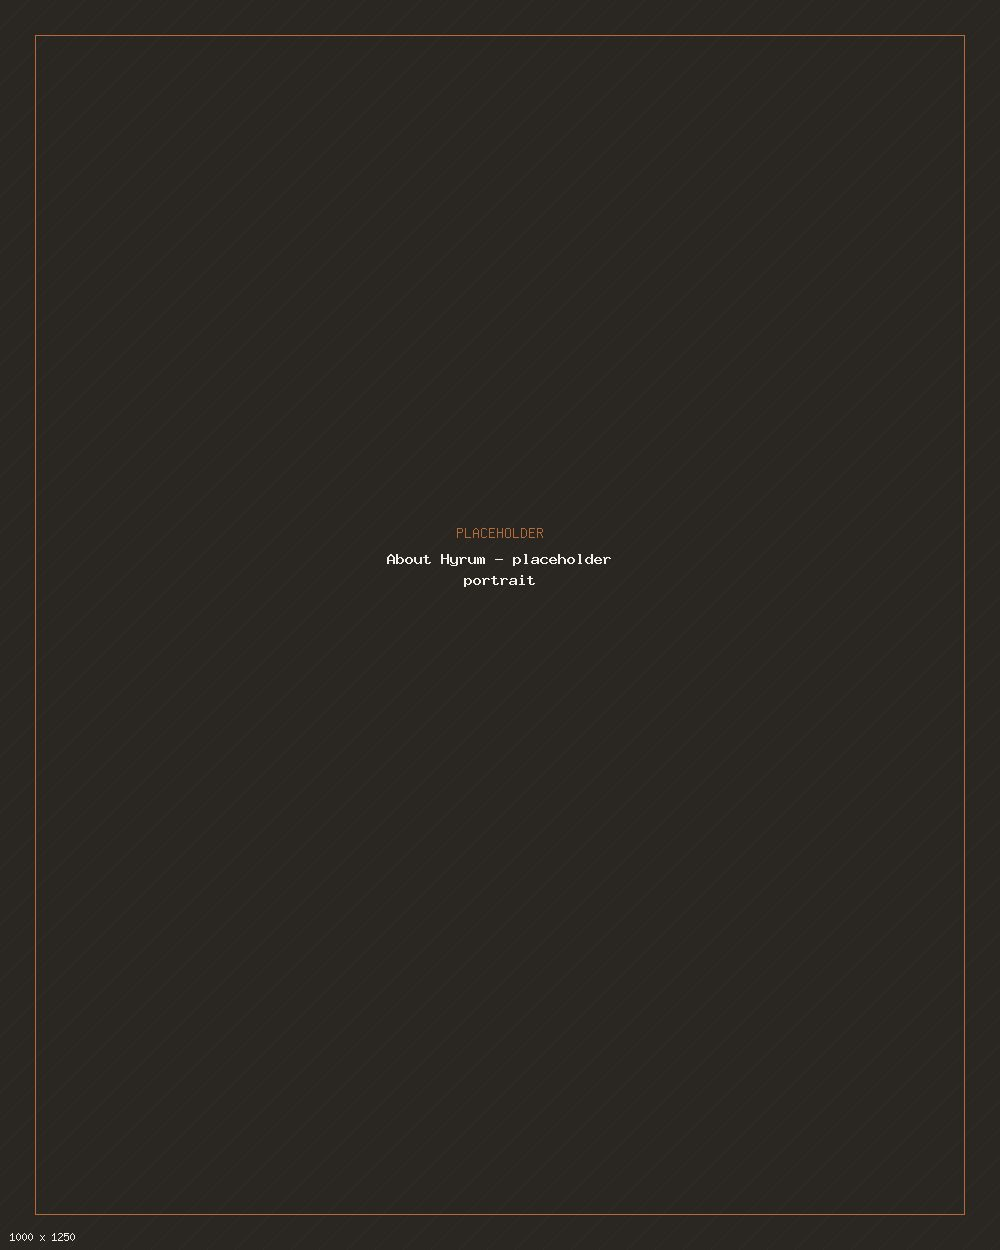
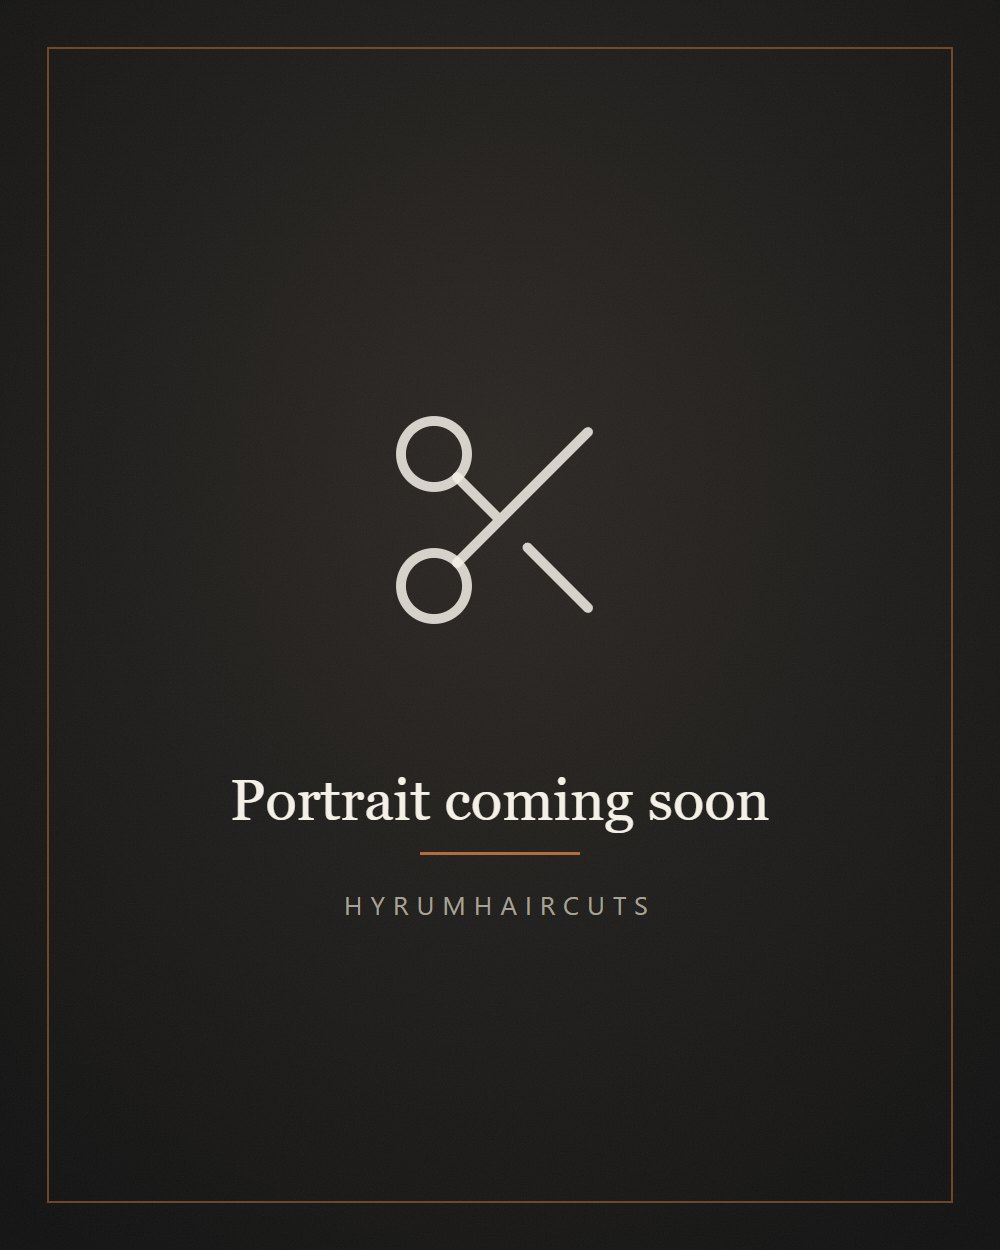
Separate videos from photos, one Book label, portrait placeholder
- Gallery: photos and before/afters in one grid, videos in their own
  "Videos" row below. Every card in a grid has the same shape (photos 4:5,
  videos 9:16) and the grids are 2 / 3 / 4 across, so rows come out even
  (8 photos = 2 rows of 4 on desktop; 4 videos = 1 row, 2x2 on phones).
- Removed the mid-gallery "Ready for your next look? / Let's Get You Fresh"
  band; the closing banner now uses the same "Book Your Next Cut" text as
  every other Book button. The two retired label settings are gone from the
  admin's Hero page.
- About: without an uploaded portrait, a branded "Portrait coming soon"
  placeholder shows (new artwork replacing the old grey "PLACEHOLDER" box).

diff --git a/web/src/public-site/gallery.js b/web/src/public-site/gallery.js
@@ -9,7 +9,6 @@ import { filterItems, visibleCategories } from '../lib/content.js';
  * full image, so the gallery still works if the lightbox script fails.
  */
 
-const CTA_AFTER = 6; // show the mid-gallery booking band after this many cards
 const PLAY_ICON = 'M8 5v14l11-7z';
 const HASH_PREFIX = '#work/';
 
@@ -28,18 +27,17 @@ export function idFromHash(hash) {
   }
 }
 
-function ratioClass(width, height) {
-  if (!width || !height) return 'aspect-[3/4]';
-  if (width === height) return 'aspect-square';
-  return width > height ? 'aspect-[4/3]' : 'aspect-[3/4]';
-}
+// Every card in a grid has the same shape so rows line up evenly; photos are
+// cropped to fill it (object-cover) and open uncropped in the viewer.
+const PHOTO_SHAPE = 'aspect-[4/5]';
+const VIDEO_SHAPE = 'aspect-[9/16]';
 
 function img(view, alt, { eager = false } = {}) {
   return h('img', {
     src: view.thumb,
     // The card variant (<=800px) for grid tiles, the full variant on large or dense screens.
     srcset: view.thumb !== view.full && view.thumbWidth && view.width ? `${view.thumb} ${view.thumbWidth}w, ${view.full} ${view.width}w` : null,
-    sizes: '(min-width: 1024px) 33vw, 50vw',
+    sizes: '(min-width: 1024px) 25vw, (min-width: 640px) 33vw, 50vw',
     alt,
     loading: eager ? 'eager' : 'lazy',
     decoding: 'async',
@@ -60,12 +58,12 @@ function card(item, index) {
   if (item.kind === 'transformation') {
     return h(
       'a',
-      { ...base, href: item.after.full, class: 'gallery-figure group col-span-2 sm:col-span-1' },
+      { ...base, href: item.after.full, class: 'gallery-figure group col-span-2' },
       h(
         'span',
         { class: 'grid grid-cols-2 gap-0.5' },
-        h('span', { class: 'relative block aspect-[3/4] overflow-hidden' }, img(item.before, `${item.altText} — before`), label('Before', 'bg-ink/85 text-ivory')),
-        h('span', { class: 'relative block aspect-[3/4] overflow-hidden' }, img(item.after, `${item.altText} — after`), label('After', 'bg-copper-dark text-ivory')),
+        h('span', { class: `relative block ${PHOTO_SHAPE} overflow-hidden` }, img(item.before, `${item.altText} — before`), label('Before', 'bg-ink/85 text-ivory')),
+        h('span', { class: `relative block ${PHOTO_SHAPE} overflow-hidden` }, img(item.after, `${item.altText} — after`), label('After', 'bg-copper-dark text-ivory')),
       ),
       title,
     );
@@ -87,7 +85,7 @@ function card(item, index) {
     return h(
       'div',
       { class: 'gallery-figure group', dataset: { videoItem: '', id: item.id } },
-      h('span', { class: `relative block ${ratioClass(item.video.width, item.video.height)} overflow-hidden bg-ink` }, video, play),
+      h('span', { class: `relative block ${VIDEO_SHAPE} overflow-hidden bg-ink` }, video, play),
       title,
     );
   }
@@ -98,21 +96,11 @@ function card(item, index) {
     { ...base, href: view.full },
     h(
       'span',
-      { class: `relative block ${ratioClass(view.width, view.height)} overflow-hidden` },
+      { class: `relative block ${PHOTO_SHAPE} overflow-hidden` },
       img(view, item.altText, { eager: index < 2 }),
       item.featured ? h('span', { class: 'sr-only' }, 'Featured work') : null,
     ),
     title,
-  );
-}
-
-/** Mid-gallery booking band. Its label and behaviour are applied by the caller. */
-function ctaBand(settings) {
-  return h(
-    'div',
-    { class: 'col-span-2 lg:col-span-3 flex flex-col sm:flex-row items-center justify-between gap-4 bg-ivory px-6 py-8 my-2 text-center sm:text-left' },
-    h('p', { class: 'text-xl font-display' }, 'Ready for your next look?'),
-    h('a', { href: '/booking/', class: 'btn-primary', dataset: { bookCta: '' } }, settings.cta_gallery_label),
   );
 }
 
@@ -121,6 +109,9 @@ function ctaBand(settings) {
  */
 export function initGallery({ items, categories, settings, onRender }) {
   const grid = document.querySelector('[data-gallery-grid]');
+  const videoGrid = document.querySelector('[data-video-grid]');
+  const videoBlock = document.querySelector('[data-video-block]');
+  const section = grid?.closest('section') ?? document;
   const filters = document.querySelector('[data-gallery-filters]');
   const status = document.querySelector('[data-gallery-status]');
   const emptyMsg = document.querySelector('[data-gallery-empty]');
@@ -129,6 +120,7 @@ export function initGallery({ items, categories, settings, onRender }) {
   if (items.length === 0) {
     grid.replaceChildren();
     setVisible(grid, false);
+    setVisible(videoBlock, false);
     setVisible(filters, false);
     setVisible(emptyMsg, true);
     return;
@@ -145,11 +137,19 @@ export function initGallery({ items, categories, settings, onRender }) {
 
   function render() {
     current = filterItems(items, active);
-    const nodes = current.map((item, i) => card(item, i));
-    if (current.length > CTA_AFTER) nodes.splice(CTA_AFTER, 0, ctaBand(settings));
-    mount(grid, nodes);
-    onRender?.(grid);
-    if (status) status.textContent = `Showing ${current.length} ${current.length === 1 ? 'cut' : 'cuts'}`;
+    const photos = current.filter((i) => i.kind !== 'video');
+    const videos = current.filter((i) => i.kind === 'video');
+    mount(grid, photos.map((item, i) => card(item, i)));
+    setVisible(grid, photos.length > 0);
+    if (videoGrid) {
+      mount(videoGrid, videos.map((item, i) => card(item, i)));
+      setVisible(videoBlock, videos.length > 0);
+    }
+    onRender?.(section);
+    if (status) {
+      const parts = [photos.length && `${photos.length} ${photos.length === 1 ? 'photo' : 'photos'}`, videos.length && `${videos.length} ${videos.length === 1 ? 'video' : 'videos'}`].filter(Boolean);
+      status.textContent = `Showing ${parts.join(' and ')}`;
+    }
   }
 
   const cats = visibleCategories(categories, items);
@@ -176,7 +176,7 @@ export function initGallery({ items, categories, settings, onRender }) {
     setVisible(filters, false);
   }
 
-  initInlineVideos(grid);
+  if (videoGrid) initInlineVideos(videoGrid);
 
   // One delegated handler survives every re-render.
   grid.addEventListener('click', (event) => {
@@ -200,7 +200,7 @@ export function initGallery({ items, categories, settings, onRender }) {
     if (!id || lightbox.isOpen()) return;
     if (!items.some((i) => i.id === id)) return;
     if (!current.some((i) => i.id === id)) setFilter('all');
-    const el = grid.querySelector(`[data-id="${CSS.escape(id)}"]`);
+    const el = section.querySelector(`[data-id="${CSS.escape(id)}"]`);
     el?.scrollIntoView({ block: 'center' });
     // A shared video link just brings the clip into view, ready to play.
     if (el?.hasAttribute('data-video-item')) {

diff --git a/web/index.html b/web/index.html
@@ -81,14 +81,21 @@
         <div class="hidden flex gap-2 overflow-x-auto pb-2 mb-6 -mx-5 px-5 sm:mx-0 sm:px-0 sm:flex-wrap" role="group" aria-label="Filter gallery by category" data-gallery-filters></div>
         <p class="sr-only" role="status" aria-live="polite" data-gallery-status></p>
 
-        <!-- Skeleton tiles reserve the grid's space while content loads. -->
-        <div class="grid grid-cols-2 lg:grid-cols-3 gap-3 sm:gap-5" data-gallery-grid>
-          <div class="skeleton aspect-[3/4]" data-skeleton aria-hidden="true"></div>
-          <div class="skeleton aspect-[3/4]" data-skeleton aria-hidden="true"></div>
-          <div class="skeleton aspect-[3/4] hidden lg:block" data-skeleton aria-hidden="true"></div>
-          <div class="skeleton aspect-[3/4]" data-skeleton aria-hidden="true"></div>
-          <div class="skeleton aspect-[3/4]" data-skeleton aria-hidden="true"></div>
-          <div class="skeleton aspect-[3/4] hidden lg:block" data-skeleton aria-hidden="true"></div>
+        <!-- Photos (and before/afters). Skeleton tiles reserve the space while content loads. -->
+        <div class="grid grid-cols-2 sm:grid-cols-3 lg:grid-cols-4 gap-3 sm:gap-5" data-gallery-grid>
+          <div class="skeleton aspect-[4/5]" data-skeleton aria-hidden="true"></div>
+          <div class="skeleton aspect-[4/5]" data-skeleton aria-hidden="true"></div>
+          <div class="skeleton aspect-[4/5] hidden sm:block" data-skeleton aria-hidden="true"></div>
+          <div class="skeleton aspect-[4/5] hidden lg:block" data-skeleton aria-hidden="true"></div>
+        </div>
+
+        <!-- Videos get their own row: they play in place, so they never mix into the photo grid. -->
+        <div class="hidden mt-14 sm:mt-20" data-video-block aria-labelledby="videos-heading">
+          <div class="flex items-baseline justify-between gap-4 mb-6">
+            <h3 id="videos-heading" class="text-2xl sm:text-3xl">Videos</h3>
+            <p class="text-sm text-muted">Tap a video to play it</p>
+          </div>
+          <div class="grid grid-cols-2 sm:grid-cols-3 lg:grid-cols-4 gap-3 sm:gap-5" data-video-grid></div>
         </div>
 
         <p class="hidden text-muted py-16 text-center" data-gallery-empty>New work is being added. Check back soon.</p>
@@ -186,7 +193,7 @@
     <section class="on-dark py-20 sm:py-24 bg-ink text-ivory grain-overlay">
       <div class="container-editorial text-center max-w-2xl mx-auto">
         <h2 class="text-3xl sm:text-4xl mb-8">Ready for a fresh cut?</h2>
-        <a href="/booking/" class="btn-primary" data-book-cta data-bind="cta_banner_label">Reserve Your Chair</a>
+        <a href="/booking/" class="btn-primary" data-book-cta data-bind="cta_book_label">Book Your Next Cut</a>
       </div>
     </section>
 

diff --git a/web/src/public-site/sections.js b/web/src/public-site/sections.js
@@ -3,6 +3,7 @@ import facebookSvg from '../assets/icons/facebook.svg?raw';
 import { h, mount, setVisible } from '../lib/dom.js';
 import { hasAboutContent, openingHours, usableFaqs, usableReviews, usableServices } from '../lib/content.js';
 import { publicMediaUrl } from '../lib/media-url.js';
+import { STARTER_PORTRAIT } from '../lib/starter-content.js';
 import { safeHttpUrl } from '../lib/urls.js';
 import { setSectionVisible } from './bind.js';
 
@@ -116,8 +117,10 @@ function plusIcon() {
 }
 
 export function renderAbout(settings) {
-  const photoPath = settings.profile_photo_path;
-  const photo = publicMediaUrl(photoPath);
+  // Until Hyrum uploads his portrait (Media > Profile Photo), show the branded
+  // "Portrait coming soon" placeholder so the section never looks unfinished.
+  const ownPhoto = publicMediaUrl(settings.profile_photo_path);
+  const photo = ownPhoto || publicMediaUrl(STARTER_PORTRAIT);
   const show = hasAboutContent(settings);
   setSectionVisible('about', show);
   if (!show) return;
@@ -129,7 +132,7 @@ export function renderAbout(settings) {
     if (photo) {
       img.setAttribute('src', photo);
       // Meaningful alt text comes from the owner; without it the image is decorative.
-      img.setAttribute('alt', settings.profile_photo_alt?.trim() || '');
+      img.setAttribute('alt', ownPhoto ? settings.profile_photo_alt?.trim() || '' : 'Portrait of Hyrum coming soon');
     }
   }
   // Without a photo the text column simply takes the full width.

diff --git a/web/src/admin/validation/settings.js b/web/src/admin/validation/settings.js
@@ -68,10 +68,8 @@ export const SETTINGS_SECTIONS = {
       { key: 'hero_eyebrow', label: 'Small line above the heading', type: 'text', max: 120, example: 'Precision cuts. Personal style.' },
       { key: 'hero_heading', label: 'Main heading', type: 'text', max: 160, example: 'A sharper look, cut for you.' },
       { key: 'hero_subheading', label: 'Supporting sentence', type: 'textarea', rows: 3, max: 300, example: 'Modern cuts, clean fades, and detail-first grooming.' },
-      { key: 'cta_book_label', label: 'Main booking button', type: 'text', max: 40, required: true, help: 'Shown in the header, hero and footer.', example: 'Book Your Next Cut' },
+      { key: 'cta_book_label', label: 'Booking button text', type: 'text', max: 40, required: true, help: 'Used on every Book button on your website (and read aloud for the scissors icon at the top).', example: 'Book Your Next Cut' },
       { key: 'cta_view_work_label', label: '"See my work" button', type: 'text', max: 40, required: true, example: 'View My Work' },
-      { key: 'cta_gallery_label', label: 'Booking button inside the gallery', type: 'text', max: 40, required: true, example: "Let's Get You Fresh" },
-      { key: 'cta_banner_label', label: 'Booking button near the bottom', type: 'text', max: 40, required: true, example: 'Reserve Your Chair' },
       { key: 'gallery_all_label', label: 'Label for "show everything" in the gallery filters', type: 'text', max: 40, required: true, example: 'All Cuts' },
     ],
   },

diff --git a/CMS_OWNER_GUIDE.md b/CMS_OWNER_GUIDE.md
@@ -98,9 +98,9 @@ When you (or a client) open a photo in the gallery, the web address changes to p
 
 ## Your portrait, bio and text
 
-- **Media → Profile Photo**: the portrait beside your bio. Add a short description of the photo too.
+- **Media → Profile Photo**: the portrait beside your bio. Until you add one, a "Portrait coming soon" placeholder shows there. Add a short description of the photo too.
 - **Website Content → About**: your name, biography, specialties, general location and availability. Anything you leave empty is simply hidden. (Your About section appears once you add a biography or a photo.)
-- **Website Content → Hero**: the words at the top of the home page and the labels on your Book buttons.
+- **Website Content → Hero**: the words at the top of the home page, and the text on your Book buttons (one setting used by every Book button).
 - **Website Content → FAQ**: questions people ask. Turn each one on or off, drag to reorder.
 - **Website Content → Announcement**: a short notice across the top of every page, for example *"Away Oct 3–10. Booking reopens Oct 11."* You can add a link (like your booking page) and pick **Show from** / **Show until** dates, so it appears and disappears by itself. Dates follow your time zone (Settings → SEO). Clear the message to turn it off. Visitors can close it with the **×**.
 
